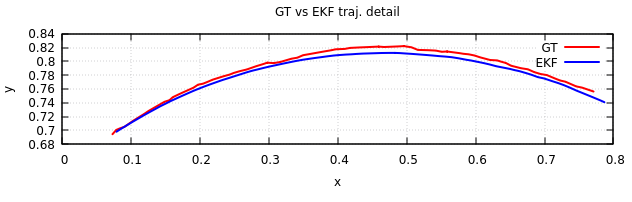
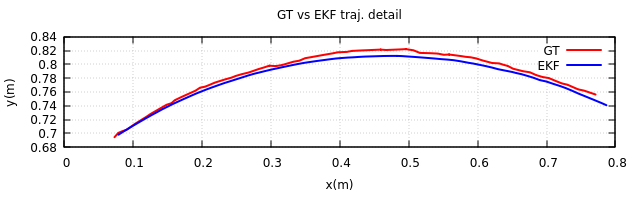
Fix missing axis labels.

diff --git a/src/ugv_main/ugv/test/test_ekf.cpp b/src/ugv_main/ugv/test/test_ekf.cpp
@@ -209,11 +209,11 @@ TEST(EkfReplay, BagCase01)
 
   double t0 = -1.0;
   // perhaps more tuning!
-  double t_min = 4.3;
-  double t_max = 7.3;
+  // double t_min = 4.3;
+  // double t_max = 7.3;
   // pretty good tracking
-  //double t_min = 7.0;
-  //double t_max = 10.0;
+  double t_min = 7.0;
+  double t_max = 10.0;
   int ind_min = -1;
   int ind_max = -1;
 
@@ -320,7 +320,7 @@ TEST(EkfReplay, BagCase01)
   }
 
   GnuplotPipe gp;
-  gp.plot_two_xy(gt_x,gt_y,ekf_x,ekf_y, "GT vs EKF traj.","x","y",0);
+  gp.plot_two_xy(gt_x,gt_y,ekf_x,ekf_y, "GT vs EKF traj.","x(m)","y(m)",0);
 
   // zoom in on gt in t
   std::vector<double> gt_t_zoom(gt_t.begin() + ind_min, gt_t.begin() + ind_max + 1);
@@ -331,7 +331,7 @@ TEST(EkfReplay, BagCase01)
   // zoom in on x and y (to check time alignment)
   std::vector<double> gt_x_zoom(gt_x.begin() + ind_min, gt_x.begin() + ind_max + 1);
   std::vector<double> gt_y_zoom(gt_y.begin() + ind_min, gt_y.begin() + ind_max + 1);
-  gp.plot_two_xy(gt_x_zoom,gt_y_zoom,ekf_x,ekf_y, "GT vs EKF traj. detail","x","y", 2);
+  gp.plot_two_xy(gt_x_zoom,gt_y_zoom,ekf_x,ekf_y, "GT vs EKF traj. detail","x(m)","y(m)", 2);
 
 }
 
